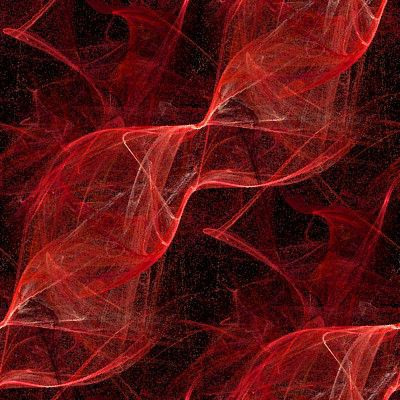
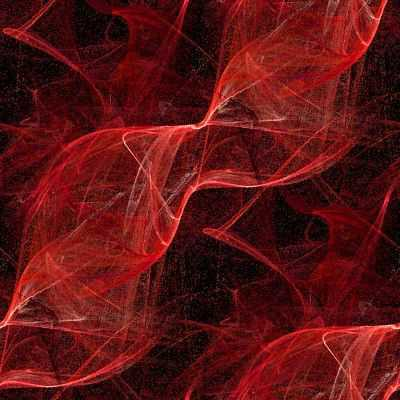
Initial stab at a transition-prerender directive that modifies the DOM after page-view completed.

diff --git a/core/controllers/lazy-loader-ctrl.js b/core/controllers/lazy-loader-ctrl.js
@@ -51,10 +51,11 @@ intv.core.controllers.LazyLoader = function ($rootScope,$route,$timeout,$locatio
             return;
         }
 
-
+        //Save some useful state information in the rootscope
         $rootScope.previousProperties = $rootScope.properties || {};
         $rootScope.properties =  $rt.properties?$rt.properties:$rootScope.properties;
         $rootScope.properties.location = $location.path();
+        $rootScope.properties.search = $location.$$search;
         console.log('route properties set to scope :' , $rootScope.properties);
         $rt.dependencies = $rt.dependencies?$rt.dependencies:false;
 
@@ -82,6 +83,7 @@ intv.core.controllers.LazyLoader = function ($rootScope,$route,$timeout,$locatio
                         node.parentNode.removeChild( node );
                     }
                     console.log('script tag(s) removed:',$rt.dependencies, +new Date());
+                    $rootScope.$broadcast('page-view');
                 },200, false);
             }
         });

diff --git a/core/directives/transition-prerender-dir.js b/core/directives/transition-prerender-dir.js
@@ -1,0 +1,17 @@
+// core/directives/transition-prefrender-dir
+// Usage: Singleton
+//        <div ng-include="templates.layout" transition-prerender=""></div>
+NSfn.namespace('intv.core').directives = intv.core.directives || angular.module('intv.core.directives', []);
+
+intv.core.directives.TransitionPrerender = function ($rootScope,$timeout) {
+    return function(scope, element, attrs) {
+        console.log("transition prerender directive initialized");
+        scope.$on('page-view',function(){
+            console.log('page-view caught in transition-prerender directive', $rootScope.properties.search);
+        });
+    };
+};
+
+intv.core.directives.directive('transitionPrerender', ['$rootScope','$timeout', intv.core.directives.TransitionPrerender]);
+
+console.log("transition prerender directive loaded");

diff --git a/application/configs/app-config.js b/application/configs/app-config.js
@@ -12,7 +12,8 @@ intv.config.corelibs.dependencies = ['core/libs/angular/angular.js',
                                      'core/libs/jsonpath.js'];
 
 // Common/Shared dependencies
-intv.config.core.dependencies = ['core/controllers/lazy-loader-ctrl.js'];
+intv.config.core.dependencies = ['core/controllers/lazy-loader-ctrl.js',
+                                 'core/directives/transition-prerender-dir.js'];
 
 // View/Route specific dependencies
 intv.config.routeConfigs = {

diff --git a/application/index.html b/application/index.html
@@ -28,8 +28,8 @@
             }
         </script-->
     </head>
-    <body ng-controller="LazyLoader">
-        <div ng-include="templates.layout"></div>
+    <body ng-controller="LazyLoader" >
+        <div ng-include="templates.layout" transition-prerender=""></div>
         <script  type="text/javascript" src="application/configs/app-config.js"></script>
         <script  type="text/javascript" src="application/bootstrap.js"></script>
     </body>

diff --git a/application/bootstrap.js b/application/bootstrap.js
@@ -15,7 +15,7 @@ console.log('application bootstrap starting', intv.instrumentation.timings.boots
 
 
 intv.config.complete = function complete() {
-    intv.app = angular.module('intv.app',['intv.core.controllers']);
+    intv.app = angular.module('intv.app',['intv.core.controllers','intv.core.directives']);
 
     intv.app.config(['$routeProvider', '$locationProvider',
         function ($routeProvider, $locationProvider) {

diff --git a/gruntfile.js b/gruntfile.js
@@ -174,8 +174,8 @@ module.exports = function (grunt) {
                 dest: "publish/css/core-styles.css",
                 options: {
                     baseDir : './publish',
-                    maxImageSize: '64000',
-                    deleteAfterEncoding: false
+                    maxImageSize: '32768',
+                    deleteAfterEncoding: true
                 }
             }
         },

diff --git a/css/core-styles.css b/css/core-styles.css
@@ -1,5 +1,6 @@
 /* this is a top level placeholder for core-styles use @import instead of placing actual styles here*/
 /* base.scss */
 body {
-  color: #ffffff;
+  color: #fff;
+  background-color: #000;
   background-image: url("/images/red_flame_fractal_background_seamless.jpg"); }

diff --git a/sass/base/base.scss b/sass/base/base.scss
@@ -2,6 +2,7 @@
 $image-path: '/images';
 
 body {
-  color: #ffffff;
+  color: #fff;
+  background-color: #000;
   background-image: url($image-path + '/red_flame_fractal_background_seamless.jpg');
 }
